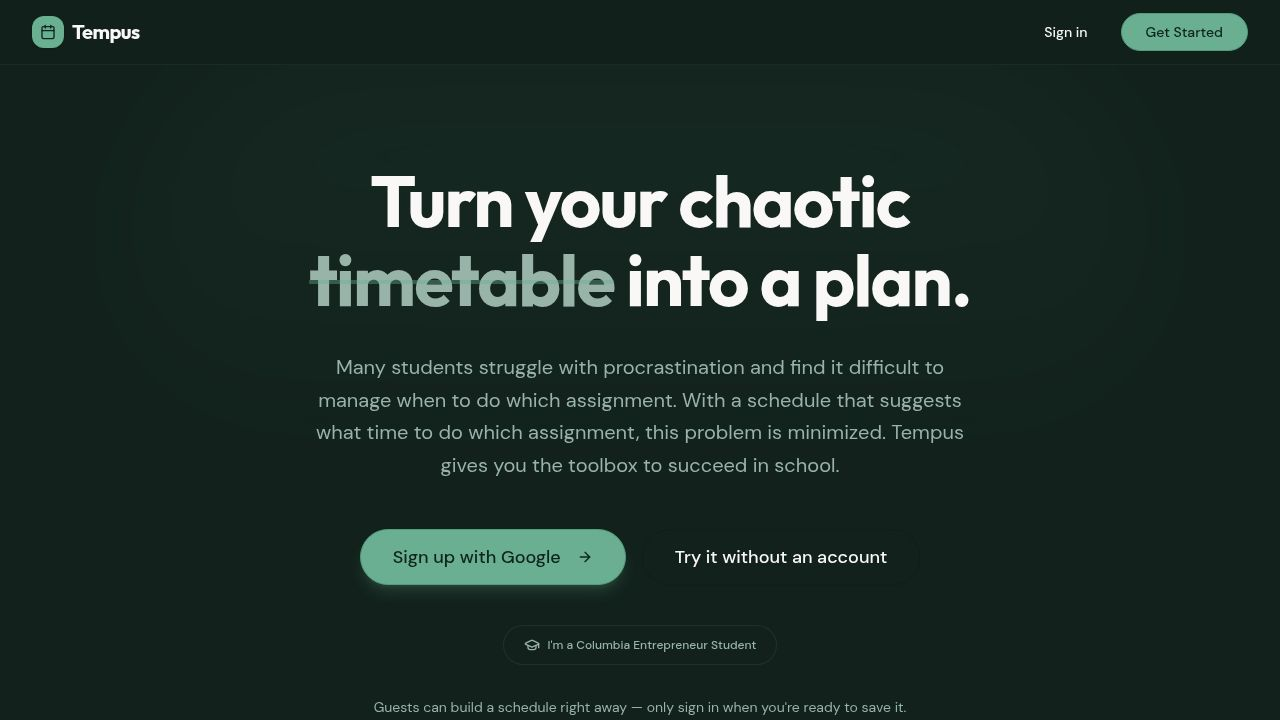
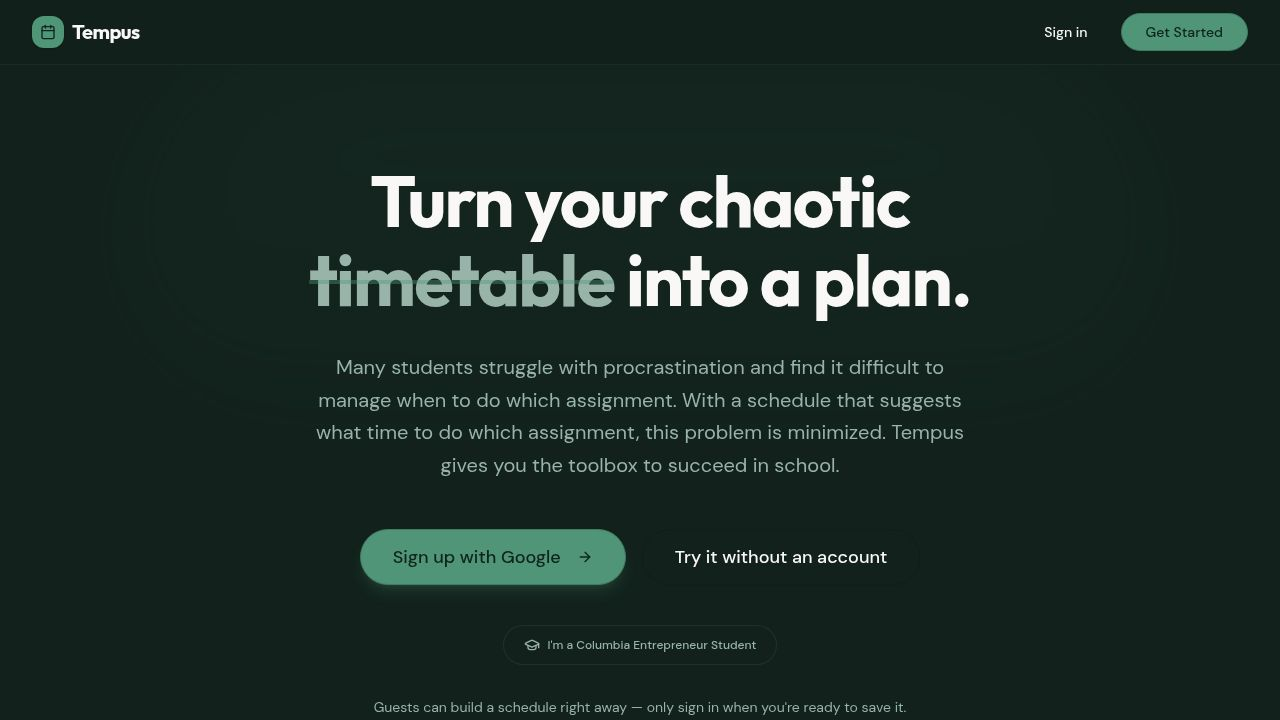
Fix describe-week textarea losing text on step navigation; add assignment pre-fill suggestions
- create.tsx: stop clearing describeText after successful commitment
  extraction, and fix the step-1 Continue button visibility condition so it
  no longer disappears once text persists in the textarea (root cause of the
  "text lost when navigating back" bug).
- create.tsx: added extractAssignmentHints(), a conservative client-side
  heuristic that scans the free-text week description for clauses containing
  assignment keywords (homework, essay, due, exam, etc.) combined with a
  resolvable date reference (weekday name, "tomorrow", "today"). Only
  produces a suggestion when an actual due date can be resolved.
- create.tsx: on successful text extraction, if hints are found, show a new
  AlertDialog listing detected assignment titles + due dates with "Skip" /
  "Add them" actions. Tasks are only added to step-2 state after explicit
  user confirmation, never automatically.
- No backend changes: this is a client-side heuristic assist, not the AI
  extraction endpoint (which only handles recurring commitments, not
  one-off assignments). Extending the backend schema for true AI-based
  assignment detection would require adding a new extraction path/schema
  and orval codegen re-run; deferred as an option if the heuristic proves
  insufficient.

Verified: typecheck passes, api-server test suite passes (11/11), no
console errors in browser/workflow logs, manual screenshot of step 1 UI.

Changed region(s): [[0.2812, 0.7333, 0.5, 0.825], [0.875, 0.0, 1.0, 0.0917], [0.0, 0.0306, 0.0625, 0.0611]]

diff --git a/artifacts/study-flow-web/src/pages/privacy.tsx b/artifacts/study-flow-web/src/pages/privacy.tsx
@@ -120,8 +120,8 @@ export default function Privacy() {
             <p className="text-muted-foreground leading-relaxed">
               If you have questions about this Privacy Policy or want to request deletion of your data, contact
               us at{" "}
-              <a href="mailto:[email redacted]" className="text-primary underline">
-                [email redacted]
+              <a href="mailto:[email redacted]" className="text-primary underline">
+                [email redacted]
               </a>
               .
             </p>